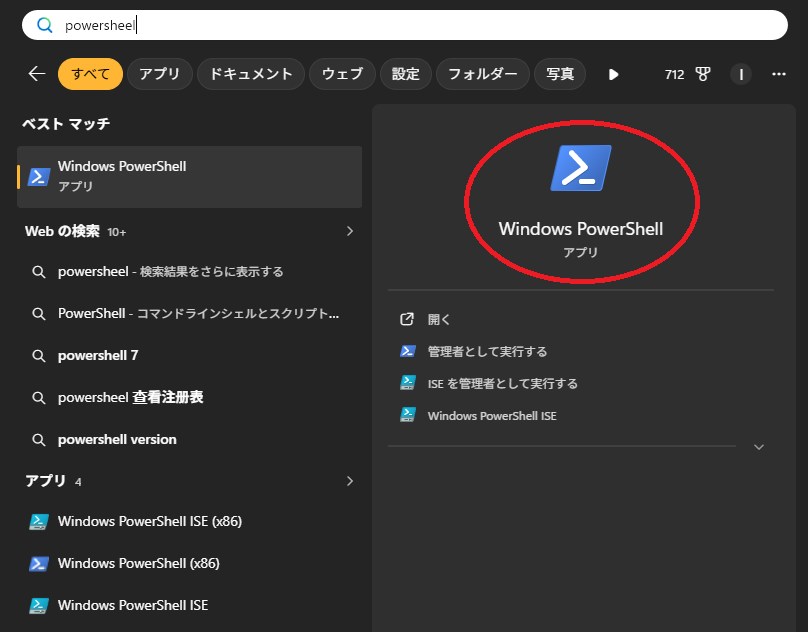
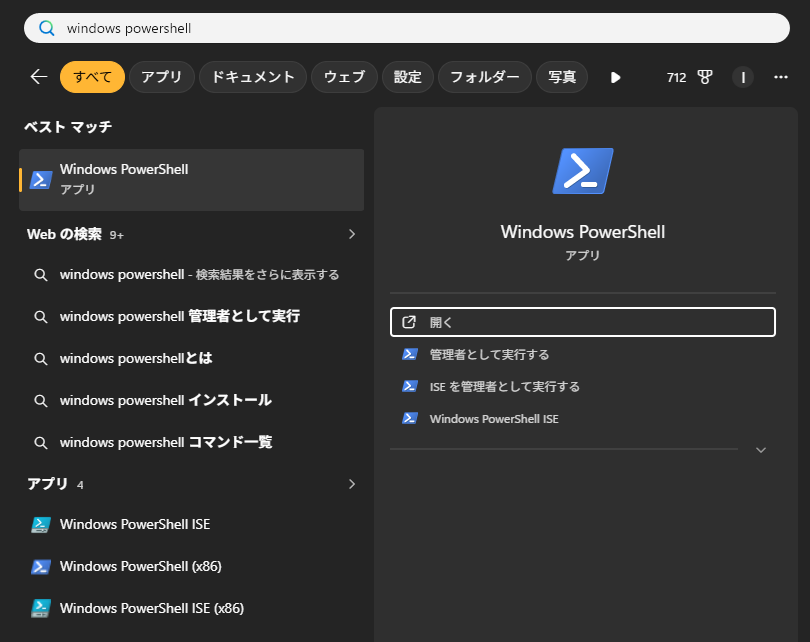
第0章 0-10: 検索で入力する文字を「windows powershell」に変更
手順1の入力例と、検索画面の写真・説明文・代替テキストを合わせて差し替え。

Claude-Session: https://claude.ai/code/session_01SW7JtYxVfeyPKkzUSfc5hy

diff --git a/docs/chapter-00.html b/docs/chapter-00.html
@@ -267,12 +267,12 @@
   <p>Git は変更を記録するとき、<strong>誰が変更したか</strong>も一緒に記録します。そのため、最初に名前とメールアドレスを登録します。あわせて、Git が文字の入力を求めるときに開く<strong>エディタ</strong>を、メモ帳に設定します。</p>
   <p>ここで初めて、ターミナルを使います。詳しい説明は第2章で行うので、今は「書かれた通りに打つ」だけで大丈夫です。</p>
   <ol>
-    <li>キーボードの <code>Windows</code> キーを押し、「PowerShell」と入力して、検索結果から<strong>「Windows PowerShell」</strong>を選んで、Enter を押す</li>
+    <li>キーボードの <code>Windows</code> キーを押し、「windows powershell」と入力して、検索結果から<strong>「Windows PowerShell」</strong>を選んで、Enter を押す</li>
     <li>タブの付いた窓（Windows Terminal）が開き、文字を打つ画面が出る。これがターミナルです（色は、設定によって人それぞれです）</li>
   </ol>
   <figure class="shot">
-    <img src="images/ch00-powershell-open.png" alt="Windows の検索で「powershell」と入力した画面。ベストマッチに Windows PowerShell が出て、右側の Windows PowerShell が赤い丸で囲まれている" onerror="this.parentNode.classList.add('missing')">
-    <figcaption><code>Windows</code> キーを押して「powershell」と入力した画面。ベストマッチに<strong>「Windows PowerShell」</strong>が出ています（赤い丸のところ）</figcaption>
+    <img src="images/ch00-powershell-open.png" alt="Windows の検索で「windows powershell」と入力した画面。ベストマッチに Windows PowerShell が出ている" onerror="this.parentNode.classList.add('missing')">
+    <figcaption><code>Windows</code> キーを押して「windows powershell」と入力した画面。ベストマッチに<strong>「Windows PowerShell」</strong>が出ています</figcaption>
   </figure>
   <div class="box warn">
     <strong class="title">「PowerShell」と「Windows PowerShell」は、別のもの</strong>

diff --git a/docs/images/README.md b/docs/images/README.md
@@ -21,7 +21,7 @@
 | `ch00-github-signup.png` | 第0章 | https://github.com/signup の入力画面（入力前の状態でよい） |
 | `ch00-github-profile.png` | 第0章 | `https://github.com/chitchi1216` のプロフィール画面 |
 | `ch00-git-installer.png` | 第0章 | Git のインストーラー（最初の画面か、設定を選ぶ画面） |
-| `ch00-powershell-open.png` | 第0章 | スタートメニューで「PowerShell」と入力した画面 |
+| `ch00-powershell-open.png` | 第0章 | スタートメニューで「windows powershell」と入力した画面 |
 | `ch00-git-config.png` | 第0章 | PowerShell で `git config --global --list` を実行した画面（メールは隠す） |
 | `ch01-explorer-address-bar.png` | 第1章 | エクスプローラーのアドレスバーをクリックし、パスが文字で表示された画面 |
 | `ch02-explorer-vs-powershell.png` | 第2章 | 同じフォルダ（`practice`）を、エクスプローラーと PowerShell で並べた画面（アドレスバーとプロンプトが両方写るように） |
@@ -58,7 +58,7 @@
 | `ch01-folder-options.png` | 「フォルダー オプション」の「表示」タブ（赤枠：「登録されている拡張子は表示しない」にチェックを入れない） |
 | `ch02-input-mode.png` | 入力モード表示（「A」と「あ」） |
 | `ch04-browser-auth.png` | ブラウザの GitHub サインイン画面（第4章の認証） |
-| `ch00-powershell-open.png` | Windows の検索で「powershell」と入力した画面（第0章） |
+| `ch00-powershell-open.png` | Windows の検索で「windows powershell」と入力した画面（第0章） |
 | `ch02-explorer-vs-powershell.png` | エクスプローラーと PowerShell を並べた画面（第2章） |
 | `ch02-notepad.png` | メモ帳で `memo.txt` を開いた画面（第2章） |
 | `ch02-pwd-ls.png` | PowerShell で `pwd` と `ls` を打った画面（第2章と、第0章 0-10 で使用） |

diff --git a/CHANGELOG.md b/CHANGELOG.md
@@ -5,7 +5,7 @@
 
 ## 0.5.8（ドラフト）— 2026-10-14
 
-- 第0章 0-10: Windows の検索で「powershell」と入力した画面の写真を差し替え（ベストマッチに「Windows PowerShell」が出て、赤い丸で囲んだもの）。説明文と、「PowerShell」と「Windows PowerShell」の注意書きの写真への言及を合わせて修正
+- 第0章 0-10: 手順1の検索で入力する文字を「windows powershell」に変更。検索画面の写真も、「windows powershell」と入力してベストマッチに「Windows PowerShell」が出たものに差し替え。説明文と、「PowerShell」と「Windows PowerShell」の注意書きの写真への言及を合わせて修正
 
 ## 0.5.7（ドラフト）— 2026-10-12
 
